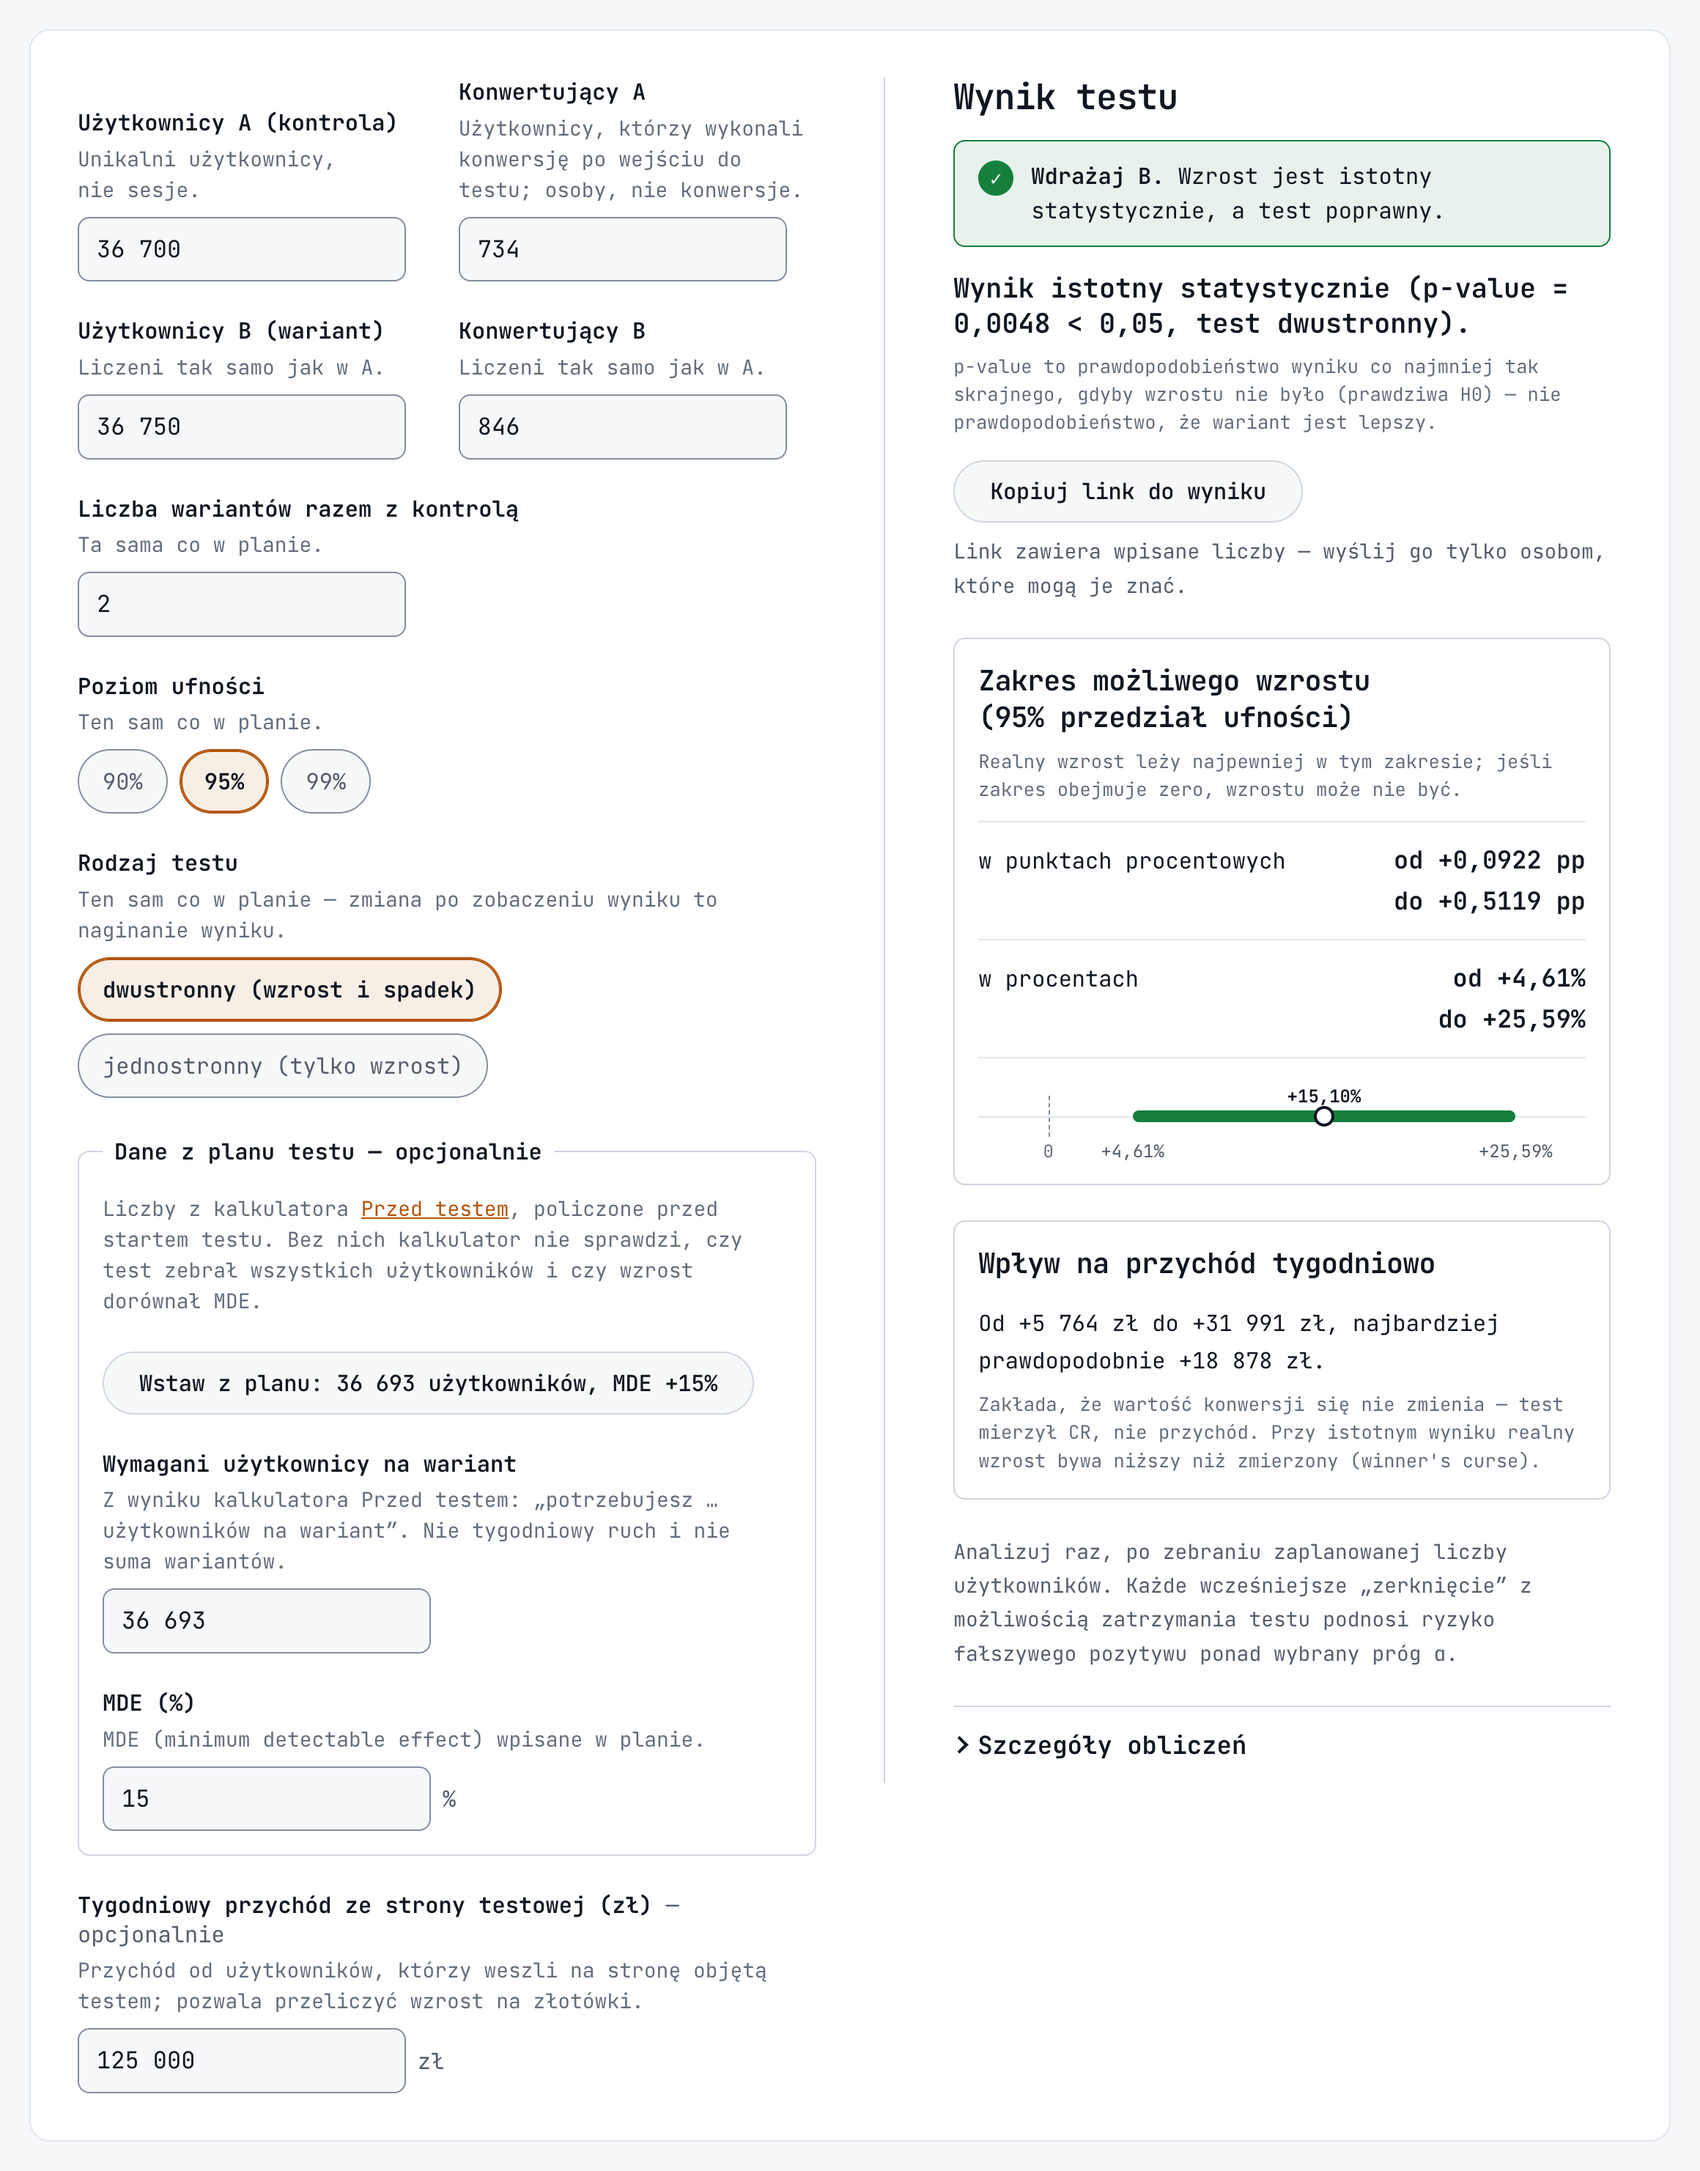
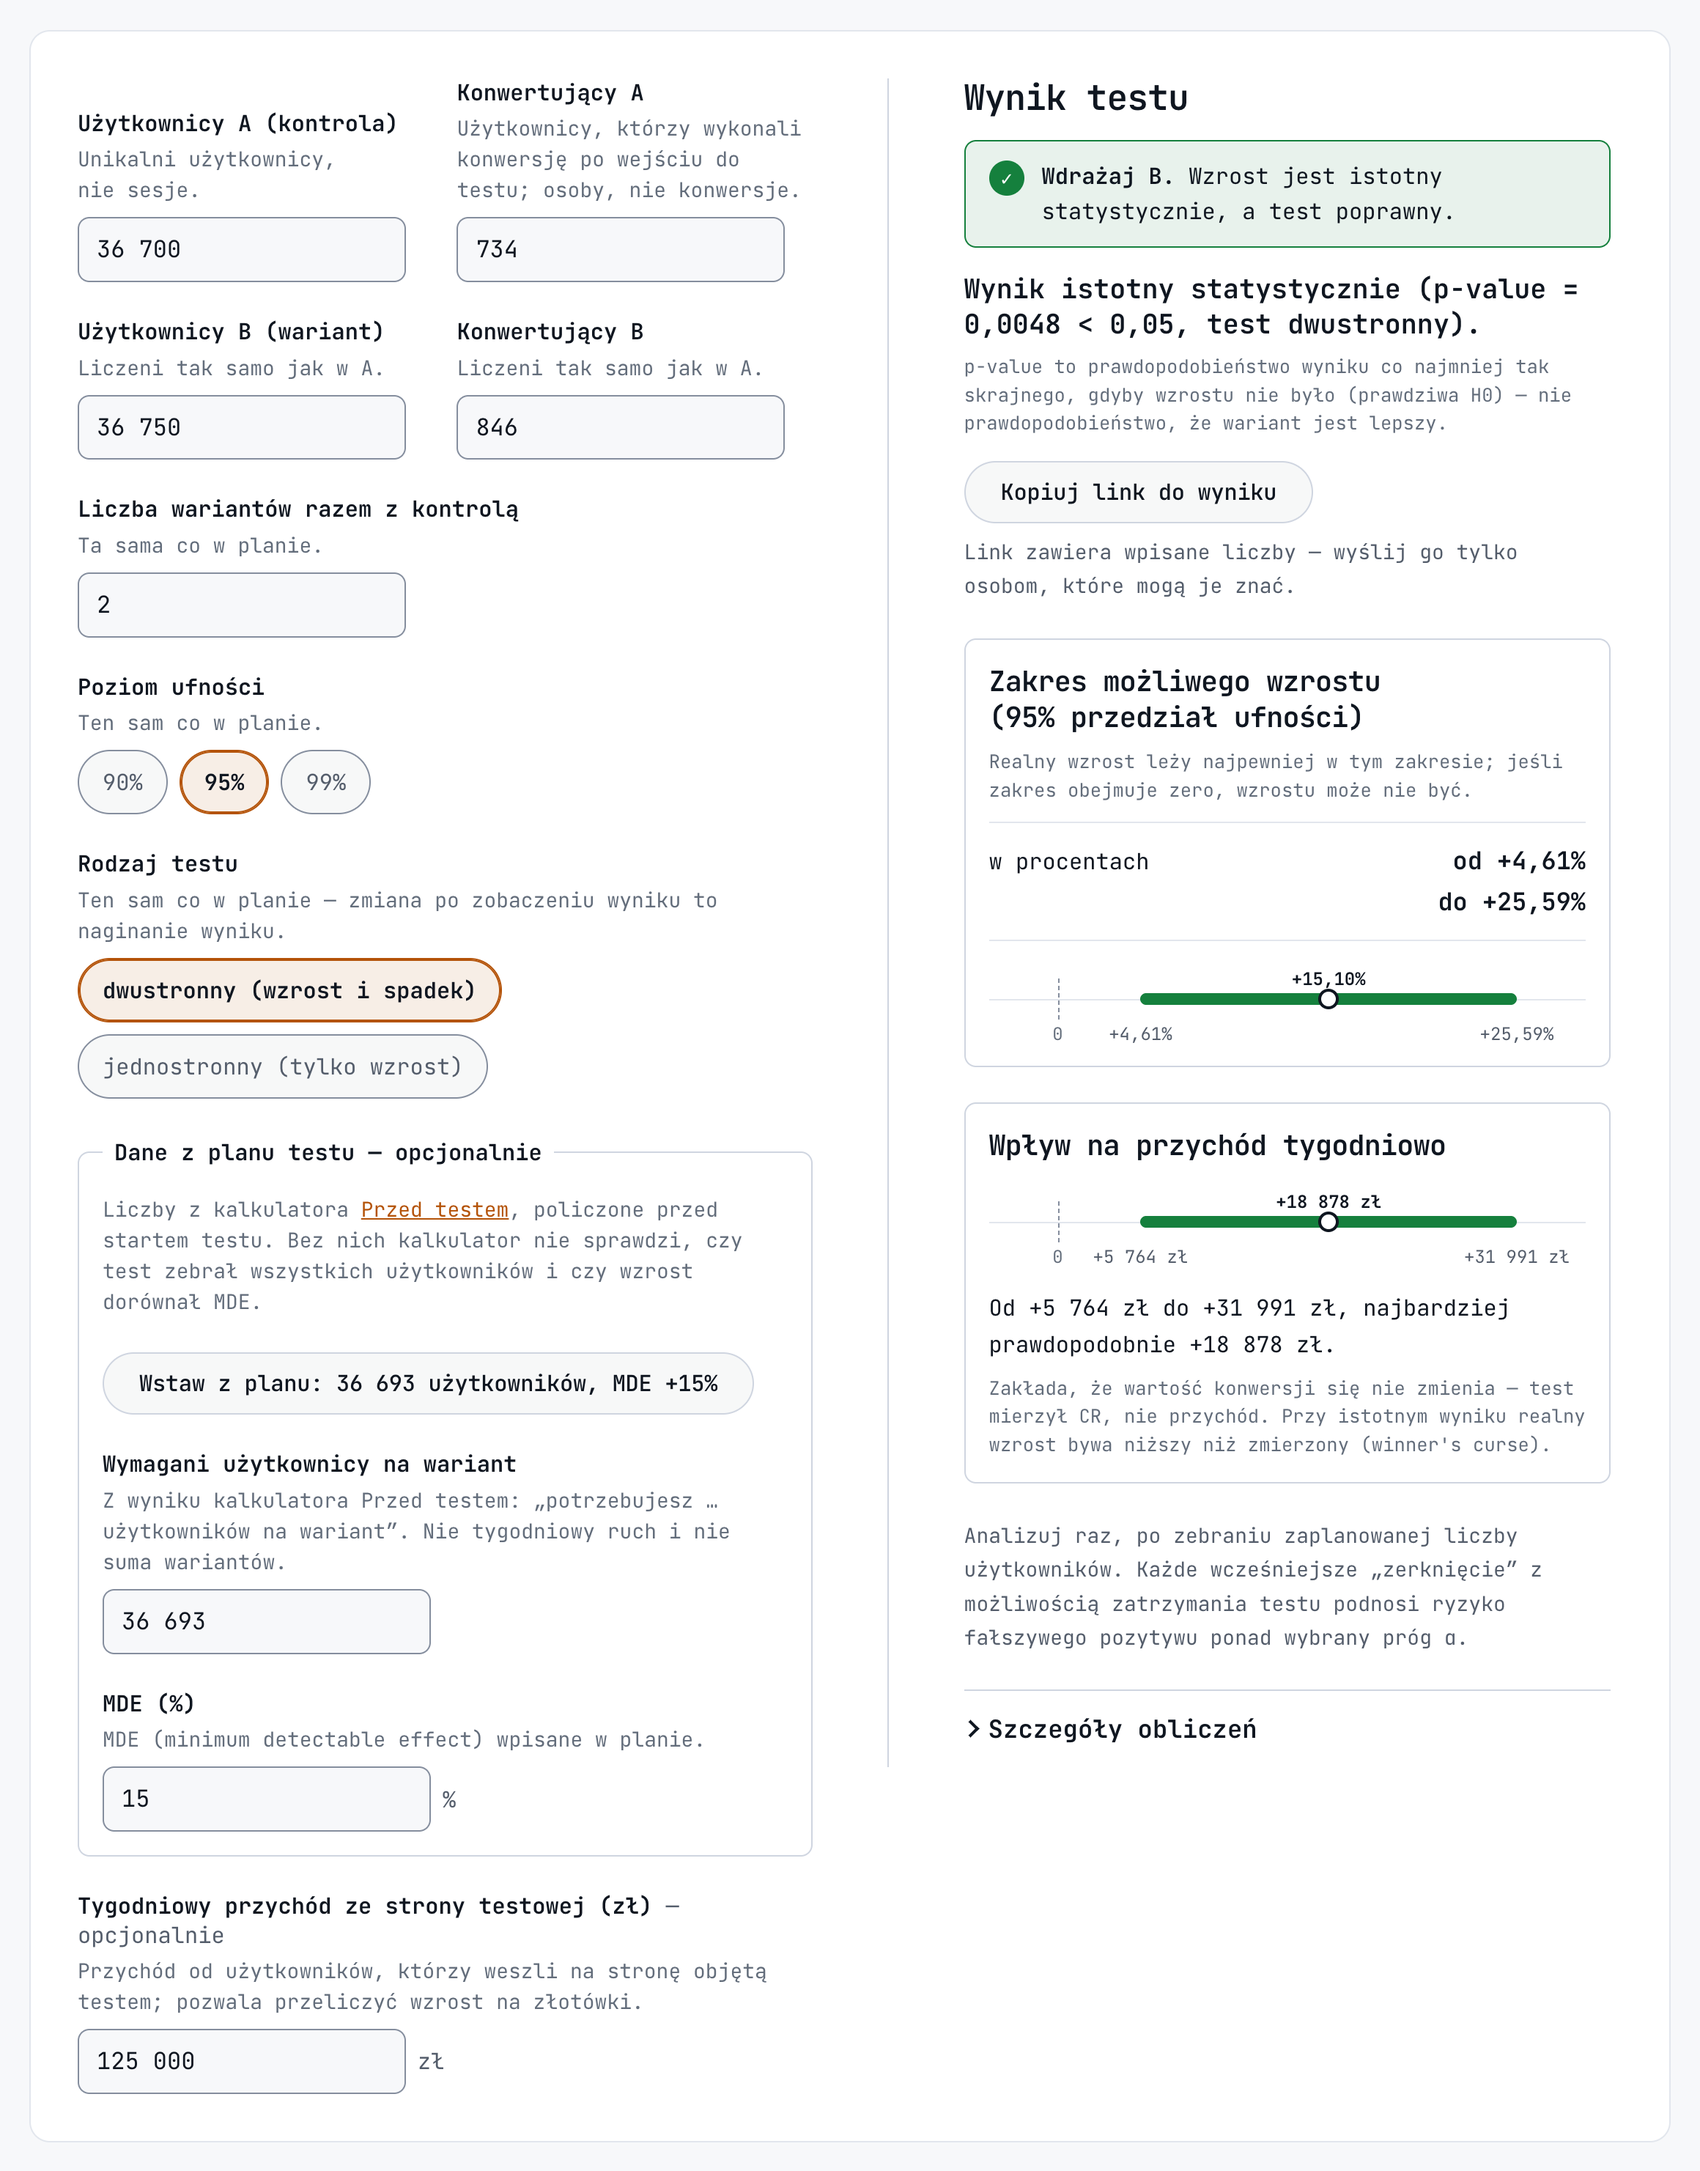
docs: zakres przychodu na osi w zł, bez zakresu w pp
Kalkulator Po teście pokazuje zakres wzrostu tylko w procentach,
a wpływ na przychód dostał własną oś w złotówkach. Nowy zrzut
i opis punktów 4 i 5.

diff --git a/README.md b/README.md
@@ -211,11 +211,11 @@ Kolejność jak na stronie: najpierw to, co czyta biznes, statystyka na dole. Pu
 
    Jak w „Przed testem”.
 
-4. **Zakres możliwego wzrostu (95% przedział ufności)**<br>Na stronie: **w punktach procentowych**: od +0,0922 pp do +0,5119 pp · **w procentach**: od +4,61% do +25,59% · oś: nad nią zmierzony wzrost (+15,10%), pod nią „0” i granice zakresu; odcinek zielony, gdy cały zakres jest powyżej zera, szary — gdy obejmuje zero, czerwony — gdy jest poniżej zera
+4. **Zakres możliwego wzrostu (95% przedział ufności)**<br>Na stronie: **w procentach**: od +4,61% do +25,59% · oś: nad nią zmierzony wzrost (+15,10%), pod nią „0” i granice zakresu; odcinek zielony, gdy cały zakres jest powyżej zera, szary — gdy obejmuje zero, czerwony — gdy jest poniżej zera
 
    Realny wzrost leży najpewniej w tym zakresie. Zakres obejmuje zero = realnie może być wzrost, brak zmiany albo spadek. Dolna granica poniżej 1% = wzrost jest, ale może być bliski zera. Przy teście jednostronnym zakres to przedział na poziomie 1 − 2α (przy 95% ufności: 90%), zgodny z progiem testu.
 
-5. **Wpływ na przychód tygodniowo**<br>Na stronie: „Od +5 764 zł do +31 991 zł, najbardziej prawdopodobnie +18 878 zł.”
+5. **Wpływ na przychód tygodniowo**<br>Na stronie: ta sama oś w złotówkach (nad nią +18 878 zł, pod nią „0”, +5 764 zł i +31 991 zł) i zdanie „Od +5 764 zł do +31 991 zł, najbardziej prawdopodobnie +18 878 zł.”
 
    Przychód tygodniowy × zakres wzrostu. Zawsze przedział, nigdy jedna liczba — do budżetu bierz dolną granicę. Zakłada, że wartość konwersji się nie zmienia (test mierzył CR, nie przychód). Przy teście zepsutym (SRM) blok się nie pokazuje.
 
